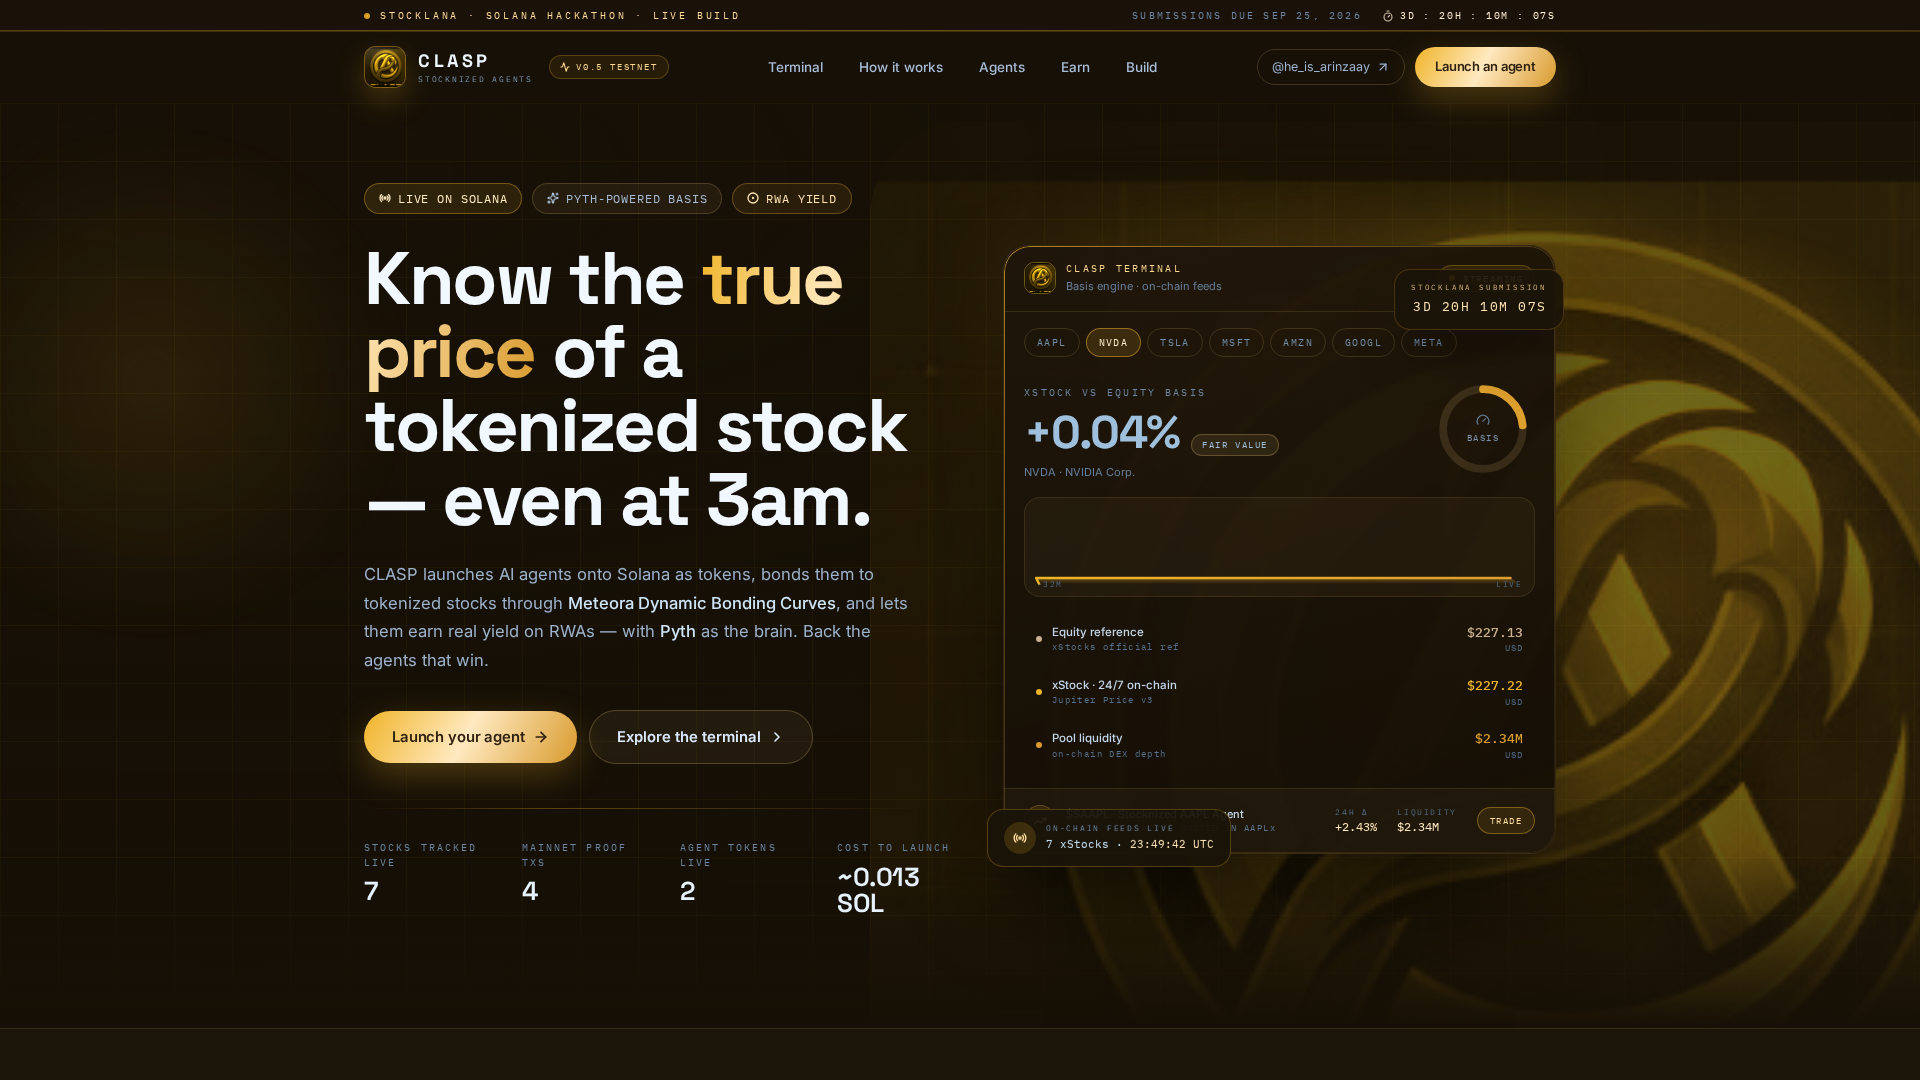
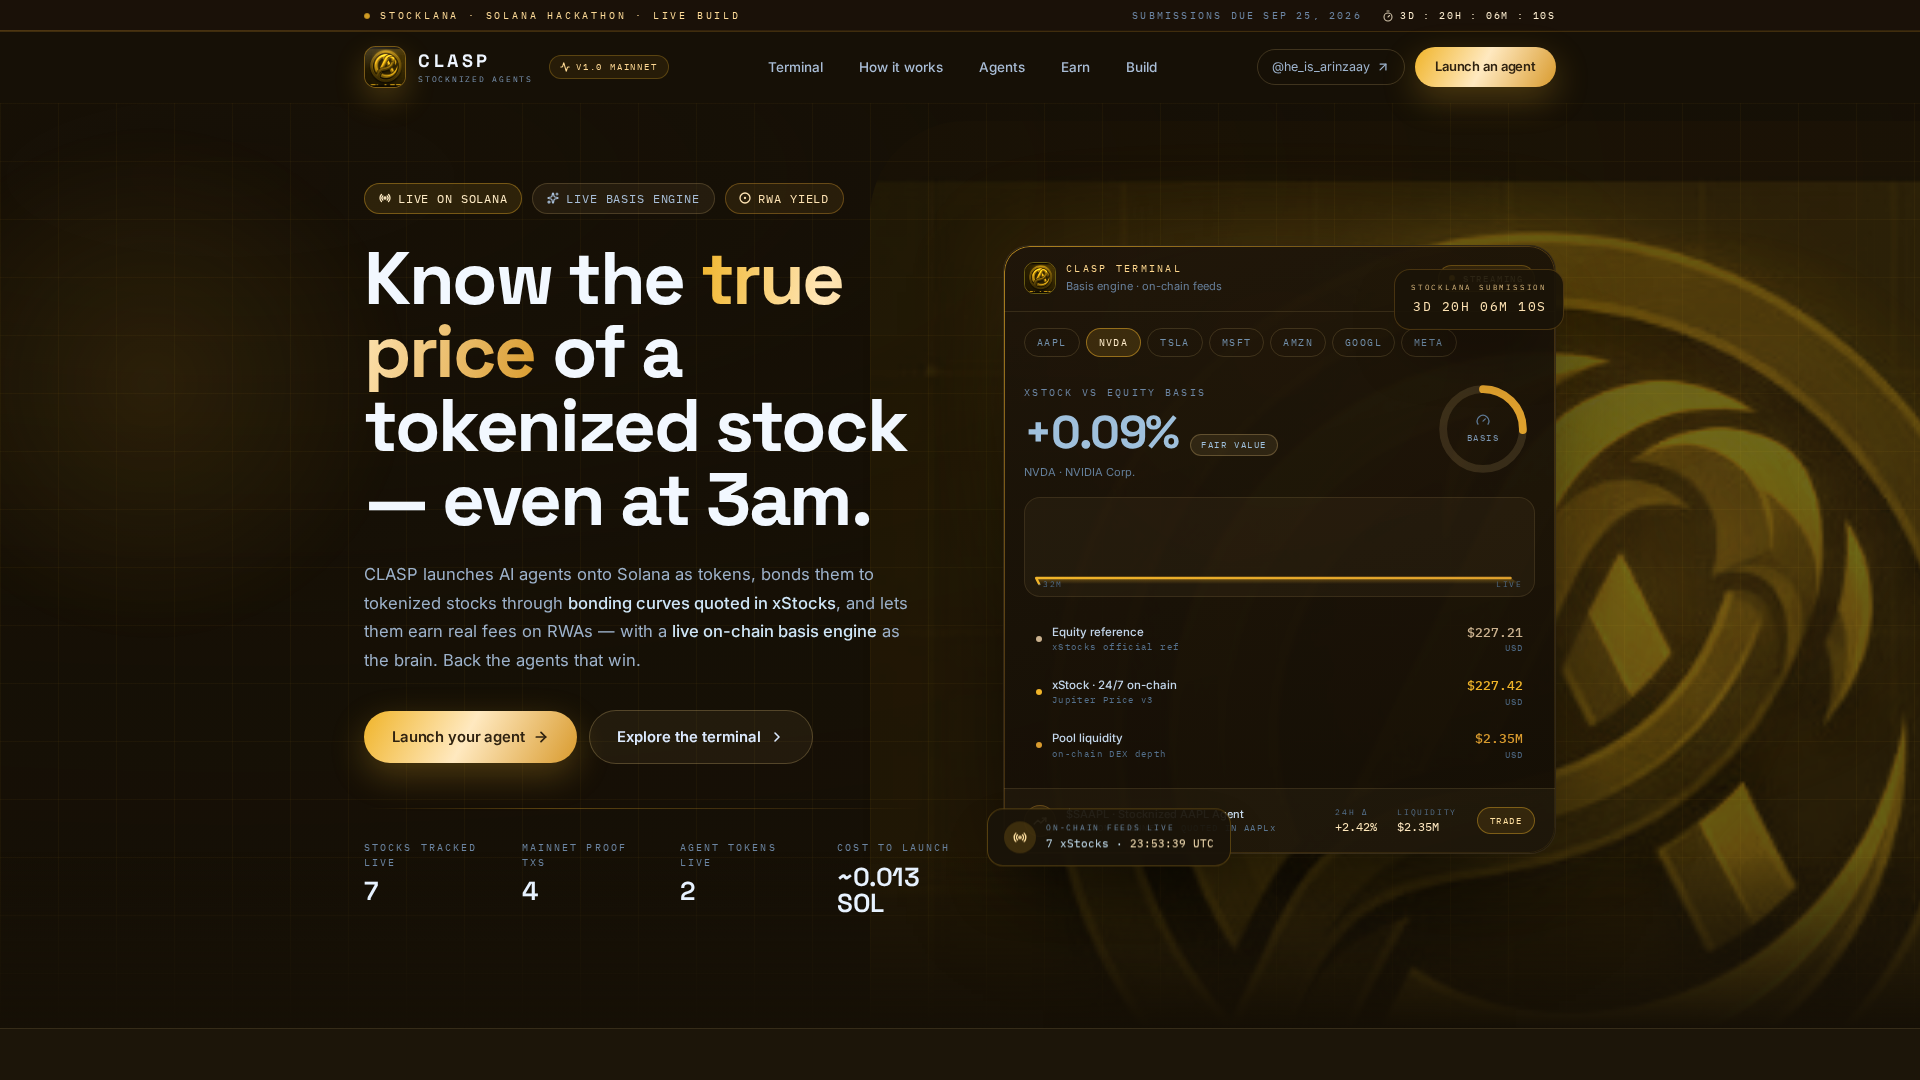
StackBar honesty: Clawpump+Solana LIVE MAINNET, Meteora/Pyth labeled ROADMAP

diff --git a/components/StackBar.tsx b/components/StackBar.tsx
@@ -5,21 +5,24 @@ import { Reveal } from '../lib/motion';
 const STACK = [
   {
     name: 'Clawpump',
-    sub: 'Gasless agent launch',
+    sub: 'Agent + token engine',
+    status: 'LIVE · MAINNET',
     icon: Zap,
     tint: '#f0b429',
     glow: 'rgba(240,180,41,0.16)',
   },
   {
     name: 'Meteora DBC',
-    sub: 'Bonding curves + fees',
+    sub: 'Graduation liquidity',
+    status: 'ROADMAP',
     icon: Waves,
     tint: '#d99b2e',
     glow: 'rgba(217,155,46,0.14)',
   },
   {
     name: 'Pyth Network',
-    sub: 'The live data brain',
+    sub: 'Oracle upgrade path',
+    status: 'ROADMAP',
     icon: Radio,
     tint: '#e9c26c',
     glow: 'rgba(228,186,102,0.15)',
@@ -27,6 +30,7 @@ const STACK = [
   {
     name: 'Solana',
     sub: 'Settlement layer',
+    status: 'LIVE · MAINNET',
     icon: Cpu,
     tint: '#ecc672',
     glow: 'rgba(232,192,106,0.15)',
@@ -73,7 +77,7 @@ export default function StackBar() {
               </p>
               <div className="mt-5 h-px w-full bg-gradient-to-r from-transparent via-[rgba(214,182,116,0.18)] to-transparent" />
               <p className="mt-4 font-mono text-[8.5px] uppercase tracking-[0.22em] text-[#4e6a86]">
-                Integrated · v0.5
+                {s.status}
               </p>
             </div>
           </Reveal>
